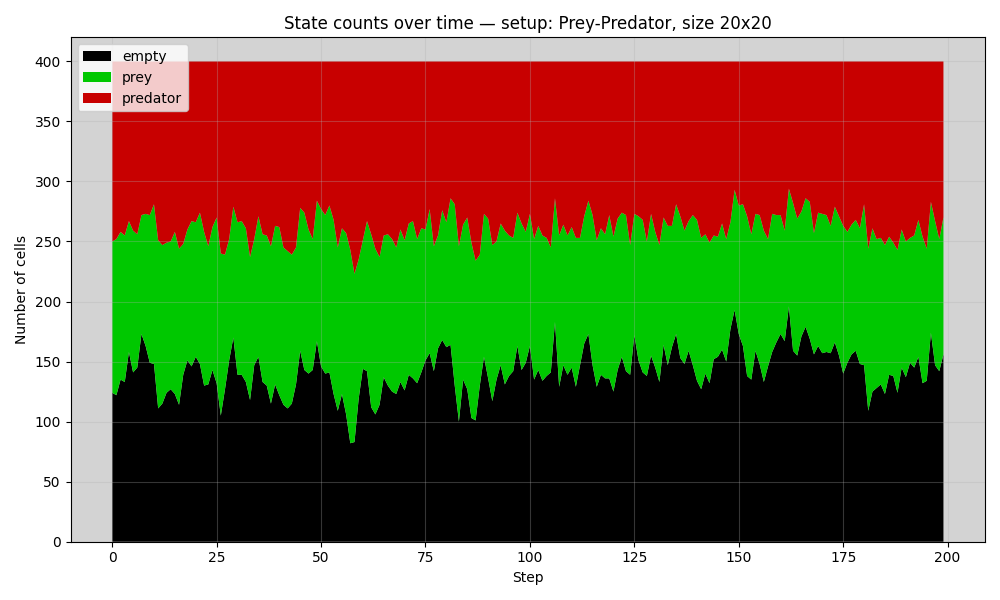
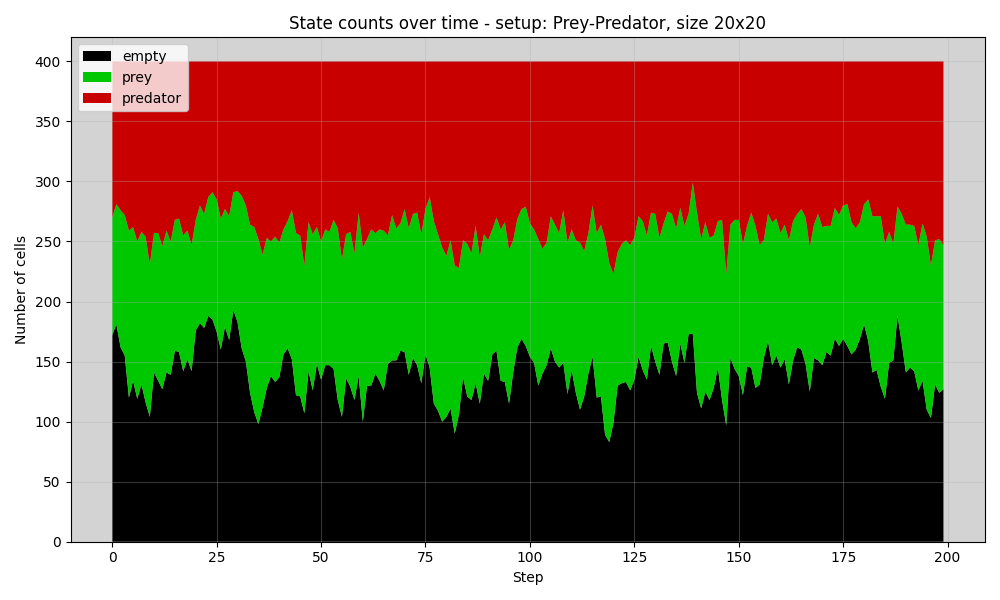
all

Changed region(s): [[0.093, 0.51, 0.961, 0.75], [0.093, 0.33, 0.961, 0.45], [0.279, 0.03, 0.775, 0.06]]

diff --git a/graph.py b/graph.py
@@ -15,7 +15,11 @@ def pick_setup(setups):
         arg = sys.argv[1]
         try:
             idx = int(arg)
-            if 0 <= idx < n_setups:
+            if idx == -1:
+                # Special case: run all setups
+                print("Running all setups...")
+                return "ALL", setup_list
+            elif 0 <= idx < n_setups:
                 name, s = setup_list[idx]
                 print(f"Using setup #{idx}: {name}")
                 return name, s
@@ -30,7 +34,10 @@ def pick_setup(setups):
     try:
         idx_input = input(f"Enter setup number [0-{n_setups-1}] (default 0): ")
         idx = int(idx_input)
-        if 0 <= idx < n_setups:
+        if idx == -1:
+            print("Running all setups...")
+            return "ALL", setup_list
+        elif 0 <= idx < n_setups:
             name, s = setup_list[idx]
             print(f"Using setup #{idx}: {name}")
             return name, s
@@ -44,6 +51,45 @@ def pick_setup(setups):
     print(f"Using default setup: {name}")
     return name, s
 
+def run_simulation_and_plot(name, setup):
+    print(f"Using setup: {name}")
+    sim = Simulation(setup, SIZE, True)
+    for step in range(INIT_STEPS):
+        sim.step()
+    sim.clear_history()
+
+    for step in range(STEPS):
+        sim.step()
+
+    history = np.array(sim.history)
+    n_states = history.shape[1]
+    state_labels = setup.names
+
+    colors = None
+    if getattr(setup, "colors", None):
+        colors = [normalize_color(c) for c in setup.colors[:n_states]]
+    if colors is None:
+        cmap = plt.get_cmap("tab10")
+        colors = [cmap(i % 10) for i in range(n_states)]
+
+    plt.figure(figsize=(10, 6))
+    plt.gca().set_facecolor("#d3d3d3")  # light grey
+    x = np.arange(history.shape[0])
+
+    # Stack all states
+    plt.stackplot(x, history.T, labels=state_labels, colors=colors)
+
+    plt.title(f"State counts over time - setup: {name}, size {SIZE}x{SIZE}")
+    plt.xlabel("Step")
+    plt.ylabel("Number of cells")
+    plt.legend(loc='upper left')
+    plt.grid(True, alpha=0.3)
+    plt.tight_layout()
+
+    SAVE_FILENAME = f"plots/{name}_{SIZE}_{STEPS}.png"
+    plt.savefig(SAVE_FILENAME)
+    print(f"Stacked plot saved to {SAVE_FILENAME}")
+    # plt.show()
 
 def normalize_color(col):
     if col is None:
@@ -53,46 +99,13 @@ def normalize_color(col):
     return col
 
 INIT_STEPS = 25
-SIZE = 20
-STEPS = 200
+SIZE = 100
+STEPS = 500
 
-name, setup = pick_setup(setups.setups)
-print(f"Using setup: {name}")
+selected_name, selected_setup = pick_setup(setups.setups)
+if selected_name == "ALL":
+    for name, setup in selected_setup:
+        run_simulation_and_plot(name, setup)
+else:
+    run_simulation_and_plot(selected_name, selected_setup)
 
-sim = Simulation(setup, SIZE, True)
-for step in range(INIT_STEPS):
-    sim.step()
-sim.clear_history()
-
-for step in range(STEPS):
-    sim.step()
-
-history = np.array(sim.history)
-n_states = history.shape[1]
-state_labels = setup.names
-
-colors = None
-if getattr(setup, "colors", None):
-    colors = [normalize_color(c) for c in setup.colors[:n_states]]
-if colors is None:
-    cmap = plt.get_cmap("tab10")
-    colors = [cmap(i % 10) for i in range(n_states)]
-
-plt.figure(figsize=(10, 6))
-plt.gca().set_facecolor("#d3d3d3")  # light grey
-x = np.arange(history.shape[0])
-
-# Stack all states
-plt.stackplot(x, history.T, labels=state_labels, colors=colors)
-
-plt.title(f"State counts over time — setup: {name}, size {SIZE}x{SIZE}")
-plt.xlabel("Step")
-plt.ylabel("Number of cells")
-plt.legend(loc='upper left')
-plt.grid(True, alpha=0.3)
-plt.tight_layout()
-
-SAVE_FILENAME = f"plots/{name}_{SIZE}_{STEPS}.png"
-plt.savefig(SAVE_FILENAME)
-print(f"Stacked plot saved to {SAVE_FILENAME}")
-# plt.show()
